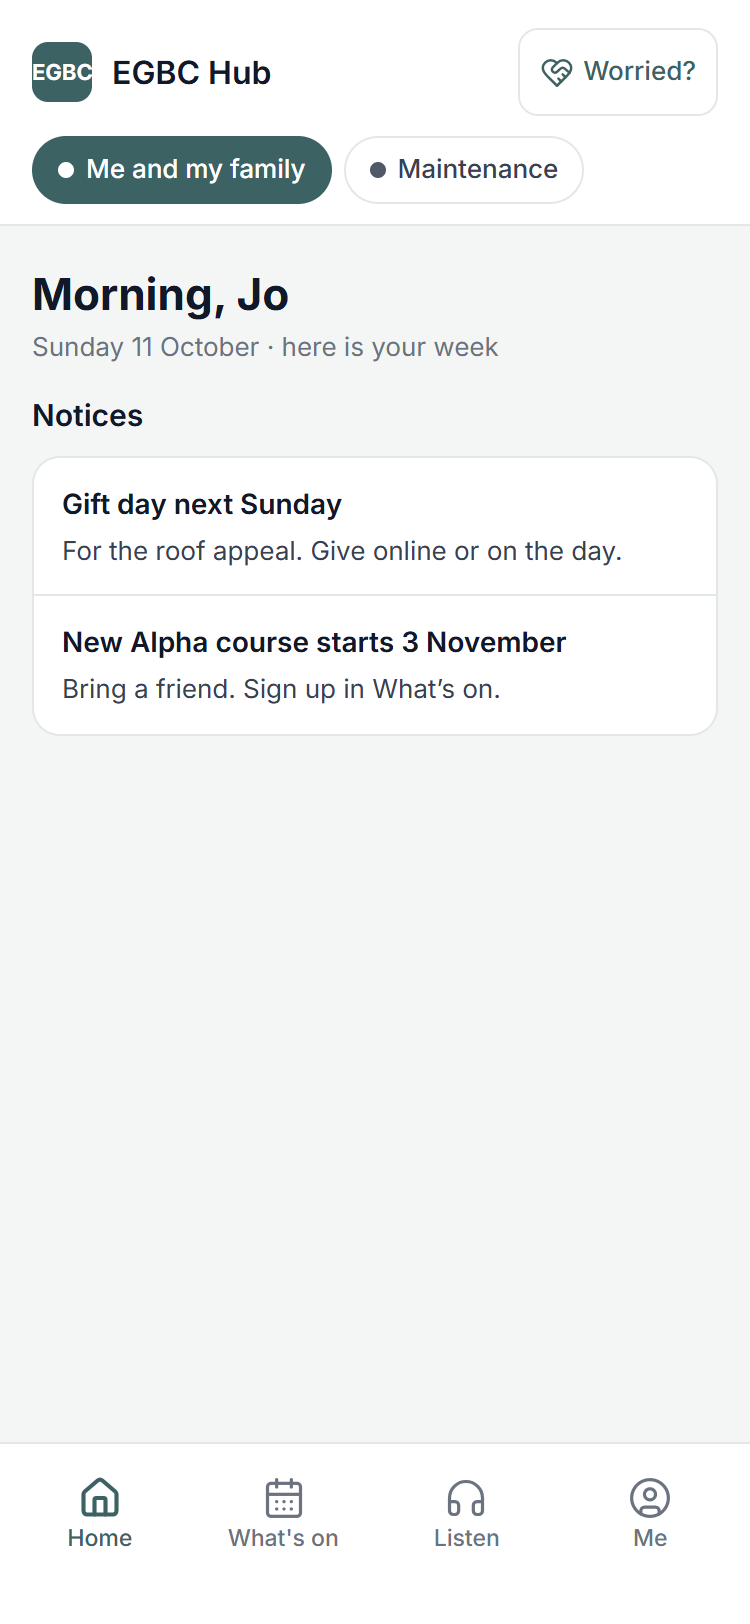
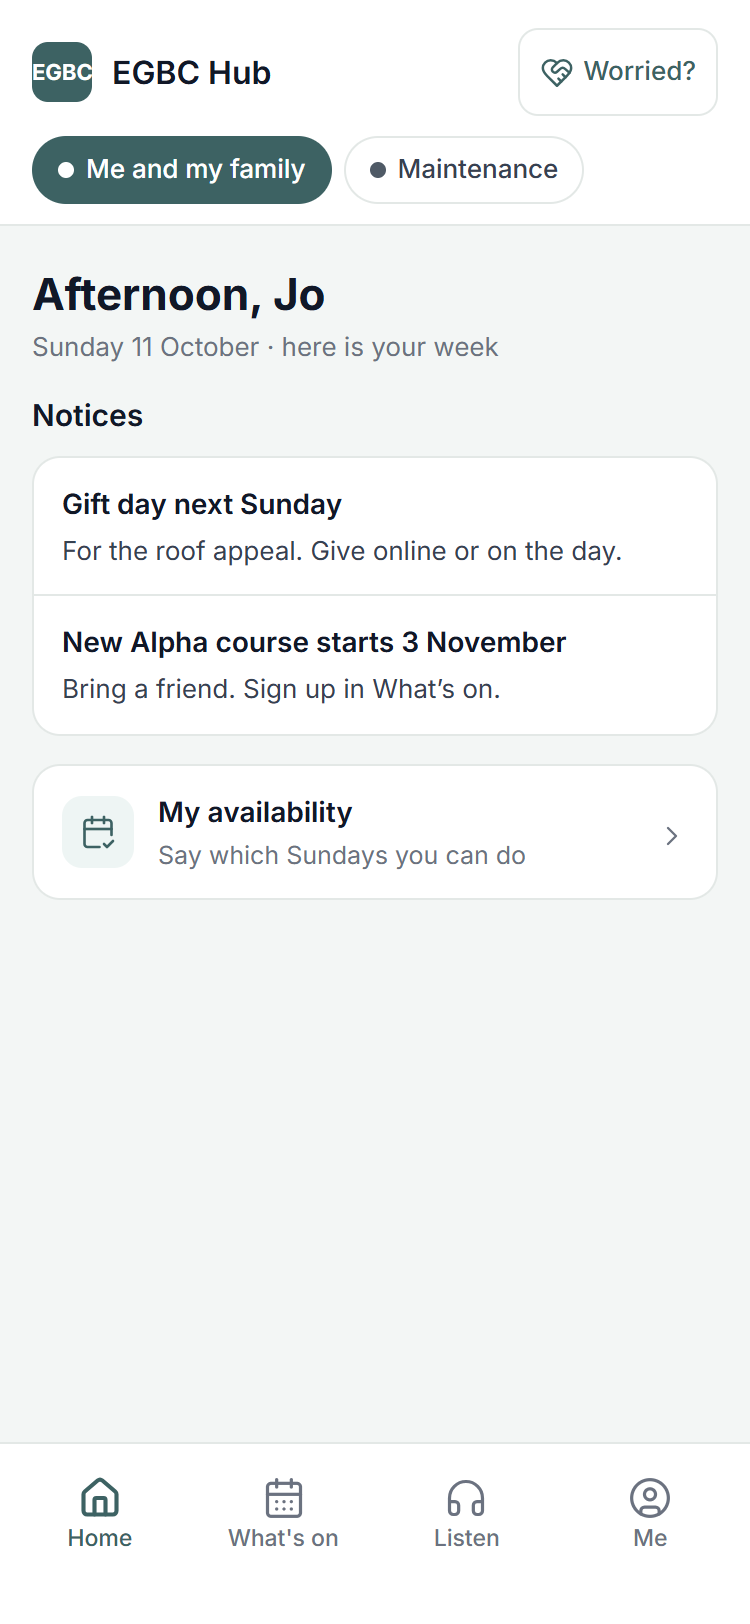
Six faults Martin found by walking the app, and a walk of my own
He walked the live app, every space and tab, and found six things my
Home-only screenshots could never show. A picture of one screen is not a
walk, so the screenshot script now walks EVERY space and tab for every
person and prints what each one says.

1. ME SAID "Martin | Attender" to a master admin on two teams - wrong and
   faintly insulting. It names the teams now: "Worship & AV and Core Team
   · master admin". "Attender" is only for somebody on no team.

2. THREE ROWS STILL WENT TO hub.html, which §7d forbids. "Add to my
   calendar" and "View as somebody else" are sheets on Me now. The
   calendar UI only ever existed inside hub-app.js, so it is built here:
   the three feeds myCalendarLinks makes, each with Copy, and a line
   saying to keep the link private because anybody holding it can read
   those dates. Only "Open the full website" points at the hub, which is
   what it says.

3. WORSHIP & AV > ROTA SHOWED NO DATES, only "say which Sundays you can
   do" - the form, not the rota. It shows "You are on" with your next
   dates and "Coming up" with the team's Sundays and who is on them.

4. RUNNING THINGS > BOOKINGS: NOT A FAULT. Warmed and read properly it
   says "Room bookings are looked after by each site's office. You are
   not on one." Martin caught it mid-load, when all it says is
   "Loading…". And Today has no tab because it has no screen - §25's "a
   visible tab must actually open", working as intended.
[…]

diff --git a/v2/app.html b/v2/app.html
@@ -479,6 +479,15 @@ A.screen('me', 'home', function (me) {
      WHAT A BRAND NEW PERSON SEES. With no rota, no events and no groups,
      Home would otherwise be a greeting and nothing. One honest line, and
      the tabs underneath, rather than a card of links. */
+  /* MY AVAILABILITY STAYS ON HOME (Martin, 11 Oct). I read "remove Quick
+     links except My availability" as "move it to Me", and took it off
+     Home altogether. He meant keep it. It is the one row that is not
+     already a tab, and saying which Sundays you can do is the thing the
+     church most needs people to actually do. */
+  out += card(row('calendar-check-2', 'My availability',
+    'Say which Sundays you can do', null, 'open:index.html',
+    A.SPACES.me.colour, A.SPACES.me.tint));
+
   if (!HOME.serving.length && !HOME.family.length && !HOME.events.length
       && !HOME.groups.length && !HOME.news.length) {
     out += A.empty('calendar-days',
@@ -497,22 +506,159 @@ A.screen('me', 'whatson', function () {
         row('users', 'Small groups', 'Your groups, and finding one', null, 'open:groups.html'));
 });
 
+/* WHO THIS PERSON IS, in their own words (Martin, 11 Oct). It said
+   "Attender" to a master admin on two teams, which is both wrong and
+   faintly insulting. Somebody on a team is a team member and the teams
+   are named; "Attender" is only for somebody on none.
+
+   The labels are the spaces' own, so "Worship & AV" rather than the two
+   markers behind it, and the list does not repeat itself. */
+function whoIAm(me) {
+  if (!me.teams.length) return me.churchMember ? 'Church member' : 'Attender';
+  var seen = {}, names = [];
+  me.teams.forEach(function (t) {
+    var S = A.SPACES, k, label = t;
+    for (k in S) if (S[k].teams && S[k].teams.indexOf(t) !== -1) { label = S[k].label; break; }
+    if (!seen[label]) { seen[label] = 1; names.push(label); }
+  });
+  var who = names.length > 2
+    ? names.slice(0, 2).join(', ') + ' and ' + (names.length - 2) + ' more'
+    : names.join(' and ');
+  return who + (me.isMaster ? ' · master admin' : '');
+}
+
+/* ---- Add to my calendar, ON ME (Martin, 11 Oct) ---------------------
+   This row opened hub.html, which §7d says the app never does. The
+   calendar UI only existed inside hub-app.js, so there was no page to
+   point at either - it is built here instead.
+
+   The three feeds are the ones myCalendarLinks already makes. The link
+   is a secret: anybody holding it can read that person's dates, which is
+   why the function hands it over rather than it being guessable, and why
+   the sheet offers Copy rather than printing it in full. */
+var FEED_BASE = (location.hostname === 'localhost' || location.hostname === '127.0.0.1')
+  ? 'http://localhost:5101/egbc-worship-planner/europe-west2/rotaFeed'
+  : 'https://europe-west2-egbc-worship-planner.cloudfunctions.net/rotaFeed';
+
+var CAL = { state: 'idle', feeds: {} };
+var CAL_KINDS = [
+  ['me', 'user', 'Just me', 'The dates I am on'],
+  ['household', 'house', 'My household', 'Everyone at my address'],
+  ['all', 'users', 'The whole rota', 'Every team, every Sunday']
+];
+
+/* THE FETCH IS NOT STARTED HERE, and that distinction cost an hour. The
+   first version called EGBCAuth.call() from inside the sheet builder,
+   and the builder runs when the sheet is REGISTERED - at script load,
+   before anybody has signed in. call() reaches for
+   auth.currentUser.getIdToken(), currentUser is null, it throws, and the
+   whole inline script dies partway through: no screens registered, no
+   tabs, nothing drawn, for every person. The screenshots showed four
+   blank apps and said "did not draw".
+
+   So loadCalendar() is called from the Me SCREEN, which only ever runs
+   after sign-in, and the builder does nothing but describe what it has. */
+function loadCalendar() {
+  if (CAL.state !== 'idle') return;
+  CAL.state = 'loading';
+  EGBCAuth.call('myCalendarLinks', {}).then(function (r) {
+    CAL.feeds = (r && r.feeds) || {}; CAL.state = 'ready';
+  }, function () { CAL.state = 'failed'; }).then(function () {
+    A.sheet('calendar', calendarSheet());
+    A.refresh('me', 'me');
+  });
+}
+
+function calendarSheet() {
+  var body;
+  if (CAL.state === 'loading' || CAL.state === 'idle') {
+    body = '<p>Getting your links…</p>';
+  } else if (CAL.state === 'failed') {
+    body = '<p>Could not get your calendar links just now. Try again in a moment, '
+         + 'or set them up on the full website.</p>';
+  } else {
+    body = '<div class="card list">' + CAL_KINDS.map(function (k) {
+      var key = CAL.feeds[k[0]];
+      return row(k[1], k[2], key ? k[3] : k[3] + ' · not set up yet',
+        key ? '<span class="pill n">Copy</span>' : '',
+        key ? 'copycal:' + k[0] : '', A.SPACES.me.colour, A.SPACES.me.tint);
+    }).join('') + '</div>'
+    + '<p class="example">Paste the link into your calendar app as a subscription. '
+    + 'It keeps itself up to date.</p>';
+  }
+  return '<h3>Add to my calendar</h3>'
+    + '<p>A link your phone’s calendar reads, so your dates appear in it. '
+    + 'Keep it to yourself: anybody with it can see those dates.</p>'
+    + body
+    + '<div class="actions"><button class="btn" data-act="close">Close</button></div>';
+}
+A.sheet('calendar', calendarSheet());
+
+/* ---- View as, ON ME, master admin only (§7e) ------------------------
+   Where the website's strip across every screen used to be. It writes
+   the same sessionStorage key the website's own bar uses, so the two
+   cannot disagree about who is being looked at. */
+A.sheet('viewas',
+  '<h3>View as somebody else</h3>'
+  + '<p>See what a member of another team sees. It changes nothing for them, '
+  + 'and it lasts until you turn it off.</p>'
+  + '<div class="card list">'
+  + Object.keys(A.SPACES).filter(function (k) { return (A.SPACES[k].teams || []).length; })
+      .map(function (k) {
+        var s = A.SPACES[k];
+        return row('eye', s.label, 'As a member of ' + s.label, null,
+                   'viewas:' + k, s.colour, s.tint);
+      }).join('')
+  + '</div>'
+  + '<div class="actions">'
+  + '<button class="btn primary" data-act="viewas:off">Stop viewing as somebody else</button>'
+  + '<button class="btn" data-act="close">Close</button></div>');
+
+/* The two actions those sheets need. Handled here rather than in the
+   shell, because they are this screen's business - the shell knows
+   about navigation, not about calendars. */
+document.addEventListener('click', function (e) {
+  var b = e.target.closest && e.target.closest('[data-act]');
+  if (!b) return;
+  var a = b.dataset.act || '';
+
+  if (a.indexOf('copycal:') === 0) {
+    var key = CAL.feeds[a.slice(8)];
+    if (!key) return;
+    var url = FEED_BASE + '?k=' + encodeURIComponent(key);
+    (navigator.clipboard && navigator.clipboard.writeText
+      ? navigator.clipboard.writeText(url) : Promise.reject())
+      .then(function () { A.toast('Link copied. Paste it into your calendar.'); },
+            function () { A.toast('Could not copy it. Open the full website instead.'); });
+    return;
+  }
+
+  if (a.indexOf('viewas:') === 0) {
+    var which = a.slice(7);
+    try {
+      if (which === 'off') sessionStorage.removeItem('egbc_view_as');
+      else sessionStorage.setItem('egbc_view_as',
+        JSON.stringify({ team: (A.SPACES[which] || {}).teams[0], role: 'member' }));
+    } catch (err) {}
+    /* A reload, because who you are is decided while the page loads -
+       the profile, the teams, the spaces and the Menu all read it once. */
+    location.reload();
+  }
+});
+
 A.screen('me', 'me', function (me) {
-  return head(me.first, me.churchMember ? 'Church member' : 'Attender')
+  loadCalendar();   /* after sign-in, never at registration - see above */
+  return head(me.first, whoIAm(me))
     + card(
         row('users', 'My groups', 'Your groups, and finding one', null, 'open:groups.html') +
         row('calendar-check-2', 'My availability', 'Opens the form you already use', null, 'open:index.html') +
-        row('calendar-plus', 'Add to my calendar', 'Just me, my household, or the whole rota', null, 'open:hub.html'))
+        row('calendar-plus', 'Add to my calendar', 'Just me, my household, or the whole rota',
+            null, 'sheet:calendar'))
     /* "Open the full website" is the ONLY route to the hub from the app
-       (§7d), and it says what it is. Everything else that used to point
-       at hub.html has gone. */
+       (§7d), and it says what it is. */
     + card(row('monitor', 'Open the full website', 'Everything, on a computer', null, 'open:hub.html'))
-    /* VIEW AS: one row, master admin only, where the website's strip used
-       to be a bar across every screen (§7e). It opens the website's own
-       picker rather than growing a second one here. */
     + (me.isMaster
-        ? card(row('eye', 'View as somebody else', 'See what another team sees', null,
-                   'open:hub.html'))
+        ? card(row('eye', 'View as somebody else', 'See what another team sees', null, 'sheet:viewas'))
         : '')
     + card(row('log-out', 'Sign out', 'You stay signed in until you do', null, 'open:login.html'))
     + A.empty('hammer', 'My details, my household and Give arrive in the next stages.');
@@ -520,14 +666,94 @@ A.screen('me', 'me', function (me) {
 
 /* ---- a team space -------------------------------------------------- */
 
-function teamRota(label) {
-  return head('Your rota', label)
-    + sec('Next term', '<div class="card" style="padding:14px">'
-        + '<p style="margin:0 0 10px;font-size:14px">Say which Sundays you can do on the availability form.</p>'
-        + '<div class="actions"><button class="btn primary" data-act="open:index.html">'
-        + ic('calendar-check-2', 15) + ' Open the availability form</button></div></div>')
-    + sec('The whole rota', card(
-        row('table', 'Everyone, week by week', 'The rota as it stands', null, 'open:view-only-rota.html')));
+/* A TEAM'S ROTA: MY NEXT DATES, AND THE TEAM'S COMING SUNDAYS.
+   Martin, 11 Oct: it showed no dates at all, only "say which Sundays you
+   can do" - which is the form, not the rota. The mock-up's Rota tab
+   answers "when am I on, and who else is on when".
+
+   It reuses the rota Home already loads rather than reading `events` a
+   second time: one load per page, and the two screens cannot disagree
+   about what is coming. */
+var TEAMROTA = { loaded: false, ready: false, dates: [] };
+
+function loadTeamRota() {
+  if (TEAMROTA.loaded) return;
+  TEAMROTA.loaded = true;
+  var today = new Date(); today.setHours(0, 0, 0, 0);
+  db.collection('events').get().then(function (snap) {
+    var out = [];
+    snap.forEach(function (d) {
+      var e = d.data() || {};
+      if (e.archived === true || !e.date) return;
+      var when = new Date(e.date + 'T00:00:00');
+      if (isNaN(when) || when < today) return;
+      var a = e.assignments || {}, who = [];
+      Object.keys(a).forEach(function (role) {
+        if (a[role] && a[role].name) who.push({ role: role, name: a[role].name, id: a[role].id || '' });
+      });
+      out.push({ when: when, date: e.date, title: e.type || 'Service',
+                 start: e.startTime || '', arrive: e.arriveTime || e.arrives || '',
+                 teams: Array.isArray(e.teams) ? e.teams : [], who: who });
+    });
+    out.sort(function (x, y) { return x.when - y.when; });
+    TEAMROTA.dates = out;
+  }).catch(function () {}).then(function () {
+    TEAMROTA.ready = true;
+    var s = A.state();
+    if (s.tab === 'rota') A.refresh(s.space, 'rota');
+  });
+}
+
+function teamRota(label, spaceKey) {
+  loadTeamRota();
+  var me = A.who();
+  var sp = A.SPACES[spaceKey] || A.SPACES.me;
+  var teams = sp.teams || [];
+  var mine = TEAMROTA.dates.filter(function (d) {
+    return d.teams.some(function (t) { return teams.indexOf(t) !== -1; });
+  });
+
+  var out = head('Your rota', label);
+
+  /* MY next dates on this team. */
+  var minePersonal = mine.filter(function (d) {
+    return d.who.some(function (w) { return w.id && w.id === me.memberId; });
+  }).slice(0, 3);
+
+  if (minePersonal.length) {
+    out += sec('You are on', minePersonal.map(function (d) {
+      var roles = d.who.filter(function (w) { return w.id === me.memberId; })
+                       .map(function (w) { return w.role; });
+      var time = d.arrive ? 'arrive ' + d.arrive : d.start;
+      return next(String(d.when.getDate()), homeMonth(d.when), roles.join(' and '),
+        d.title + (time ? ' · ' + time : ''), '', sp.colour, sp.tint);
+    }).join(''));
+  } else if (TEAMROTA.ready) {
+    out += sec('You are on', '<div class="card" style="padding:14px">'
+      + '<p style="margin:0;font-size:14px">Nothing on the rota for you yet. '
+      + 'Say which Sundays you can do and the planner will put you on.</p></div>');
+  }
+
+  /* The team's coming Sundays, whoever is on them. */
+  if (mine.length) {
+    out += sec('Coming up', card(mine.slice(0, 6).map(function (d) {
+      var names = d.who.map(function (w) { return w.name.split(/\s+/)[0]; });
+      var seen = {}, firsts = [];
+      names.forEach(function (n) { if (!seen[n]) { seen[n] = 1; firsts.push(n); } });
+      return row('calendar-check',
+        d.when.getDate() + ' ' + homeMonth(d.when) + ' · ' + d.title,
+        firsts.length ? firsts.join(', ') : 'Nobody on it yet',
+        null, null, sp.colour, sp.tint);
+    }).join('')), ['Whole rota', 'open:view-only-rota.html']);
+  } else {
+    out += sec('Coming up', '<div class="card" style="padding:14px"><p style="margin:0;font-size:14px">'
+      + (TEAMROTA.ready ? 'Nothing on the rota for this team yet.' : 'Finding the rota…')
+      + '</p></div>');
+  }
+
+  out += card(row('calendar-check-2', 'My availability', 'Say which Sundays you can do',
+    null, 'open:index.html', sp.colour, sp.tint));
+  return out;
 }
 
 function teamTeam(space, extra) {
@@ -535,7 +761,7 @@ function teamTeam(space, extra) {
 }
 
 ['youth', 'lazers', 'renu'].forEach(function (k) {
-  A.screen(k, 'rota', function () { return teamRota(A.SPACES[k].label); });
+  A.screen(k, 'rota', function () { return teamRota(A.SPACES[k].label, k); });
   A.screen(k, 'team', function () {
     return teamTeam(k,
       row('folder-open', 'Team resources', 'Documents and links', null, 'open:resources.html') +
@@ -550,7 +776,7 @@ function teamTeam(space, extra) {
 
 /* ---- Worship & AV --------------------------------------------------- */
 
-A.screen('worship', 'rota', function () { return teamRota('Worship & AV'); });
+A.screen('worship', 'rota', function () { return teamRota('Worship & AV', 'worship'); });
 
 A.screen('worship', 'learn', function () {
   return head('Learn', 'Videos and how-tos for the team')
@@ -572,7 +798,7 @@ A.screen('worship', 'team', function () {
 
 /* ---- Kids Church ----------------------------------------------------- */
 
-A.screen('kids', 'rota', function () { return teamRota('Kids Church'); });
+A.screen('kids', 'rota', function () { return teamRota('Kids Church', 'kids'); });
 
 A.screen('kids', 'team', function () {
   return teamTeam('kids',
@@ -610,10 +836,24 @@ A.screen('office', 'people', function () {
 });
 
 A.screen('office', 'send', function () {
+  /* NEITHER OF THESE OPENS FROM THE PHONE YET, and saying so is better
+     than dropping somebody onto a page that fights them (Martin, 11 Oct).
+
+     An email: EmailBuilder2.html is the worst page in the app's list at
+     375px - +321px of sideways scroll, a 696px dialog, the toolbar cut
+     off (APP-PARITY part 2). CoreTeamApp already has a phone email
+     compiler; this row becomes that one when Core Team > Team is built
+     (§7b), and until then it does not pretend.
+
+     A notice: the notice editor lives inside hub.html, and §7d says the
+     app never opens the website's home. It needs a phone screen of its
+     own, which is a later stage. */
   return head('Send something')
     + card(
-        row('mail', 'An email', 'To a team, a group or everyone', null, 'open:EmailBuilder2.html') +
-        row('megaphone', 'A notice', "Shows on everyone's home page", null, 'open:hub.html'));
+        row('mail', 'An email', 'Easier on a computer for now', null, 'toast:The email compiler needs a big screen. It comes to the app with the Core Team space.') +
+        row('megaphone', 'A notice', 'Easier on a computer for now', null, 'toast:Writing a notice needs a big screen for now. Open the full website from Me.'))
+    + A.empty('monitor', 'Both of these are easier on a computer today. '
+        + 'They get phone screens of their own in a later stage.');
 });
 
 A.screen('office', 'bookings', function () {

diff --git a/v2/egbc-app.js b/v2/egbc-app.js
@@ -129,7 +129,11 @@
   /* An action, or nothing. Only the shapes the shell knows how to do, so a
      screen cannot smuggle anything into the attribute. */
   function actOk(a) {
-    return /^(close|tab:[a-z-]+|sheet:[a-z-]+|go:[a-z]+:[a-z-]+|open:[A-Za-z0-9._%&=?-]+|toast:.{1,120})$/
+    /* copycal: and viewas: are the Me screen's, added when the calendar
+       choices and "View as" moved off the website and onto a sheet
+       (§7d). Both are a fixed word and a short key - no free text goes
+       into the attribute, which is the whole point of this list. */
+    return /^(close|tab:[a-z-]+|sheet:[a-z-]+|go:[a-z]+:[a-z-]+|open:[A-Za-z0-9._%&=?-]+|toast:.{1,120}|copycal:[a-z]+|viewas:[a-z]+)$/
       .test(String(a || ''));
   }
 
@@ -429,6 +433,14 @@
     who: who, spacesFor: spacesFor, tabsFor: tabsFor,
     esc: esc, ic: ic, row: row, sec: sec, next: next, card: card,
     head: head, empty: empty,
+    /* A screen's own code sometimes has something to say - "Link copied"
+       - without a button to hang a toast: action on. Same toast, same
+       timer, so there is one of them rather than two. */
+    toast: function (words) {
+      S.toast = String(words || ''); S.sheet = null; draw();
+      clearTimeout(toastTimer);
+      toastTimer = setTimeout(function () { S.toast = null; draw(); }, 3200);
+    },
     state: function () { return { space: S.space, tab: S.tab, sheet: S.sheet }; },
     start: function () { S.space = 'me'; S.tab = 'home'; draw(); }
   };
